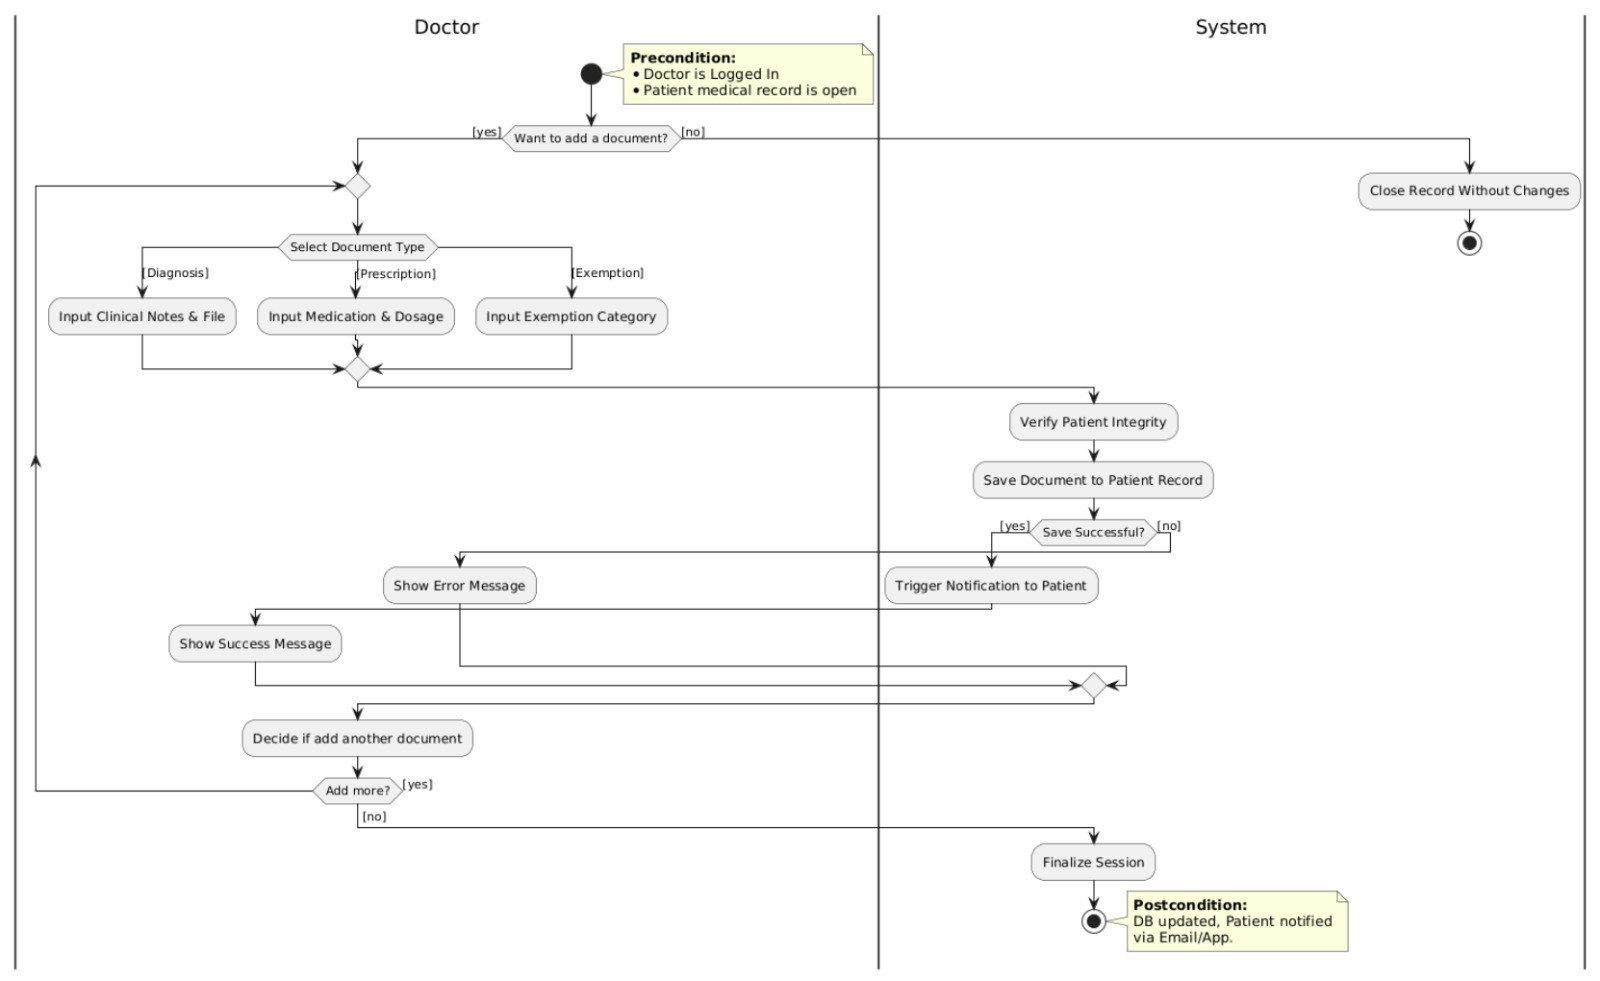
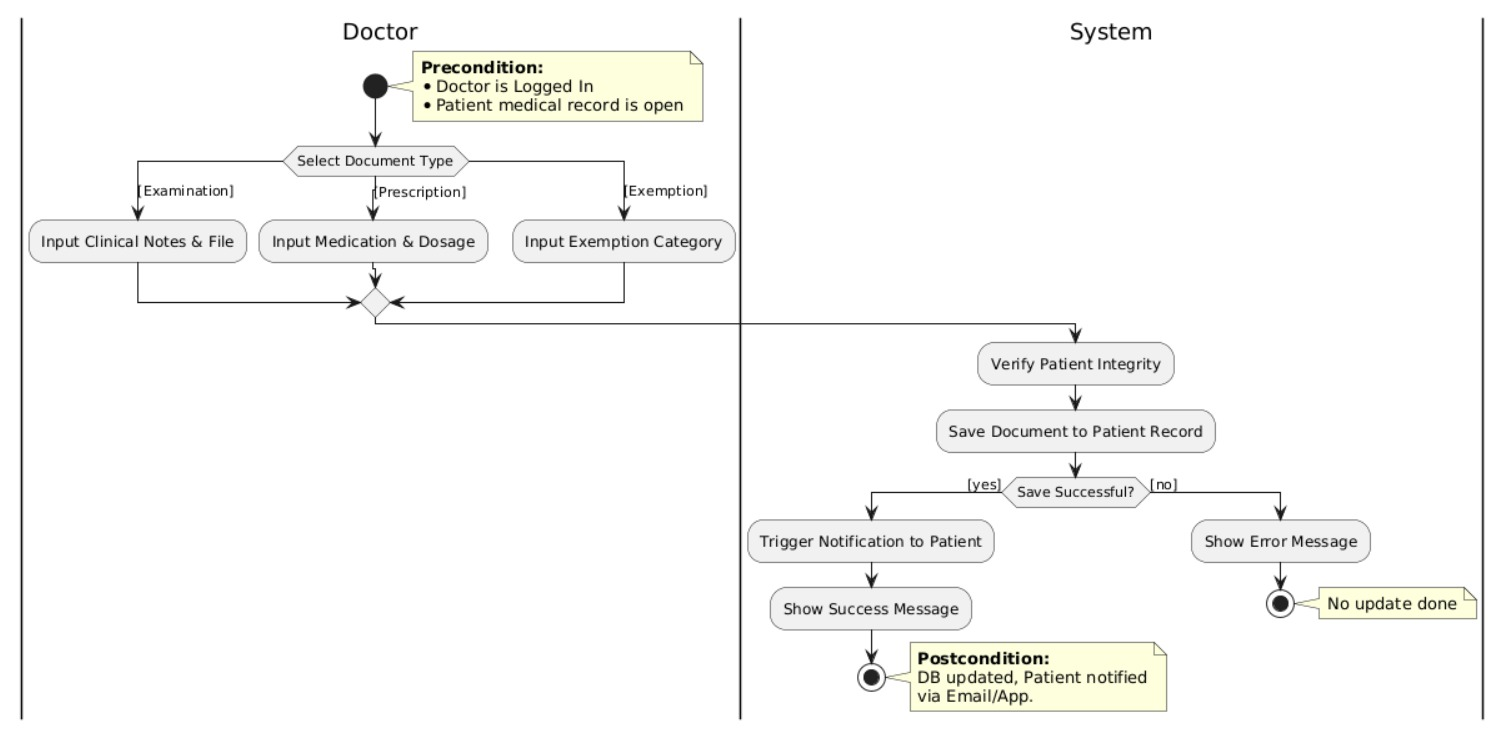
activity diagram aggiunti :)

diff --git a/deliverable_three.tex b/deliverable_three.tex
@@ -771,12 +771,20 @@ This change aligns the use case with the actual system implementation.
         \includegraphics[width=0.8\textwidth]{Activity_Diagram/DoctorMedicalRecord.jpeg}
         \captionof{figure}{Activity Diagram regarding Doctor Accessing Patient's Medical Record}
     \end{center}
+
+    \textbf{Using:} 
+    
     \begin{itemize}
-        \item \textbf{Using:} 
-        \textbf{UC42}{Medical record access (Doctor)},
+        \item \textbf{UC42} Medical record access (Doctor) ,
     \end{itemize}
 \end{minipage}
 \vspace{3em}
+
+\begin{ucedits}
+Following review of D2 the activity diagram number 6 was split to better reflect use cases.
+\end{ucedits}
+
+
 
 \phantomsection
 \begin{minipage}{\textwidth}
@@ -786,12 +794,69 @@ This change aligns the use case with the actual system implementation.
         \includegraphics[width=0.8\textwidth]{Activity_Diagram/DoctorUploads.jpeg}
         \captionof{figure}{Activity Diagram regarding Doctor Uploading Prescription / Exemption / Examination}
     \end{center}
+
+    \textbf{Using:} 
+
     \begin{itemize}
-        \item \textbf{Using:} 
-        \textbf{UC3}{Create Prescription / Exemption},
-        \textbf{UC4}{Upload Examination},    \end{itemize}
+        \item \textbf{UC3} Create Prescription / Exemption,
+        \item \textbf{UC4} Upload Examination,    
+    \end{itemize}
+
+    
 \end{minipage}
 \vspace{3em}
+
+\begin{ucedits}
+Following review of D2 the activity diagram number 6 was split to better reflect use cases.
+\end{ucedits}
+
+
+\phantomsection
+\begin{minipage}{\textwidth}
+    \subsection{Activity Diagram 8. Patient Cancel and reschedule appointment}
+    The following activity diagram shows the entire flow of cancellation and rescheduling of an appointment from the patient's perspective.
+    \begin{center}
+        \includegraphics[width=0.8\textwidth]{Activity_Diagram/PatientCancelReschedule.jpeg}
+        \captionof{figure}{Activity Diagram regarding Patient Cancel and reschedule appointment}
+    \end{center}
+    
+    \textbf{Using:} 
+
+    \begin{itemize}
+        \item \textbf{UC10} Cancel Appointment (Patient),
+        \item \textbf{UC29} Appointment rescheduling,
+    \end{itemize}
+\end{minipage}
+\vspace{3em}
+
+\begin{ucedits}
+Following review of D2 this activy diagram was added to visualize the steps of the respective use cases.
+\end{ucedits}
+
+\phantomsection
+\begin{minipage}{\textwidth}
+    \subsection{Activity Diagram 9. Patient Medical record and Prescriptions consultation}
+    The following activity diagram shows the entire flow of patient medical record access and prescription consultation.
+    \begin{center}
+        \includegraphics[width=0.8\textwidth]{Activity_Diagram/PatientMedicalRecordPrescriptions.jpeg}
+        \captionof{figure}{Activity Diagram regarding Patient Medical record and Prescriptions consultation}
+    \end{center}
+    
+    \textbf{Using:} 
+    
+    \begin{itemize}
+        \item \textbf{UC38} Prescription Consultation,
+        \item \textbf{UC39} Detailed Prescription Access,    
+        \item \textbf{UC40} Medical Record Access,    
+    \end{itemize}
+    
+\end{minipage}
+\vspace{3em}
+
+\begin{ucedits}
+Following review of D2 this activy diagram was added to visualize the steps of the respective use cases.
+\end{ucedits}
+
 
 % --- CONTEXT DESCRIPTION ---
 \section{Context Description}
